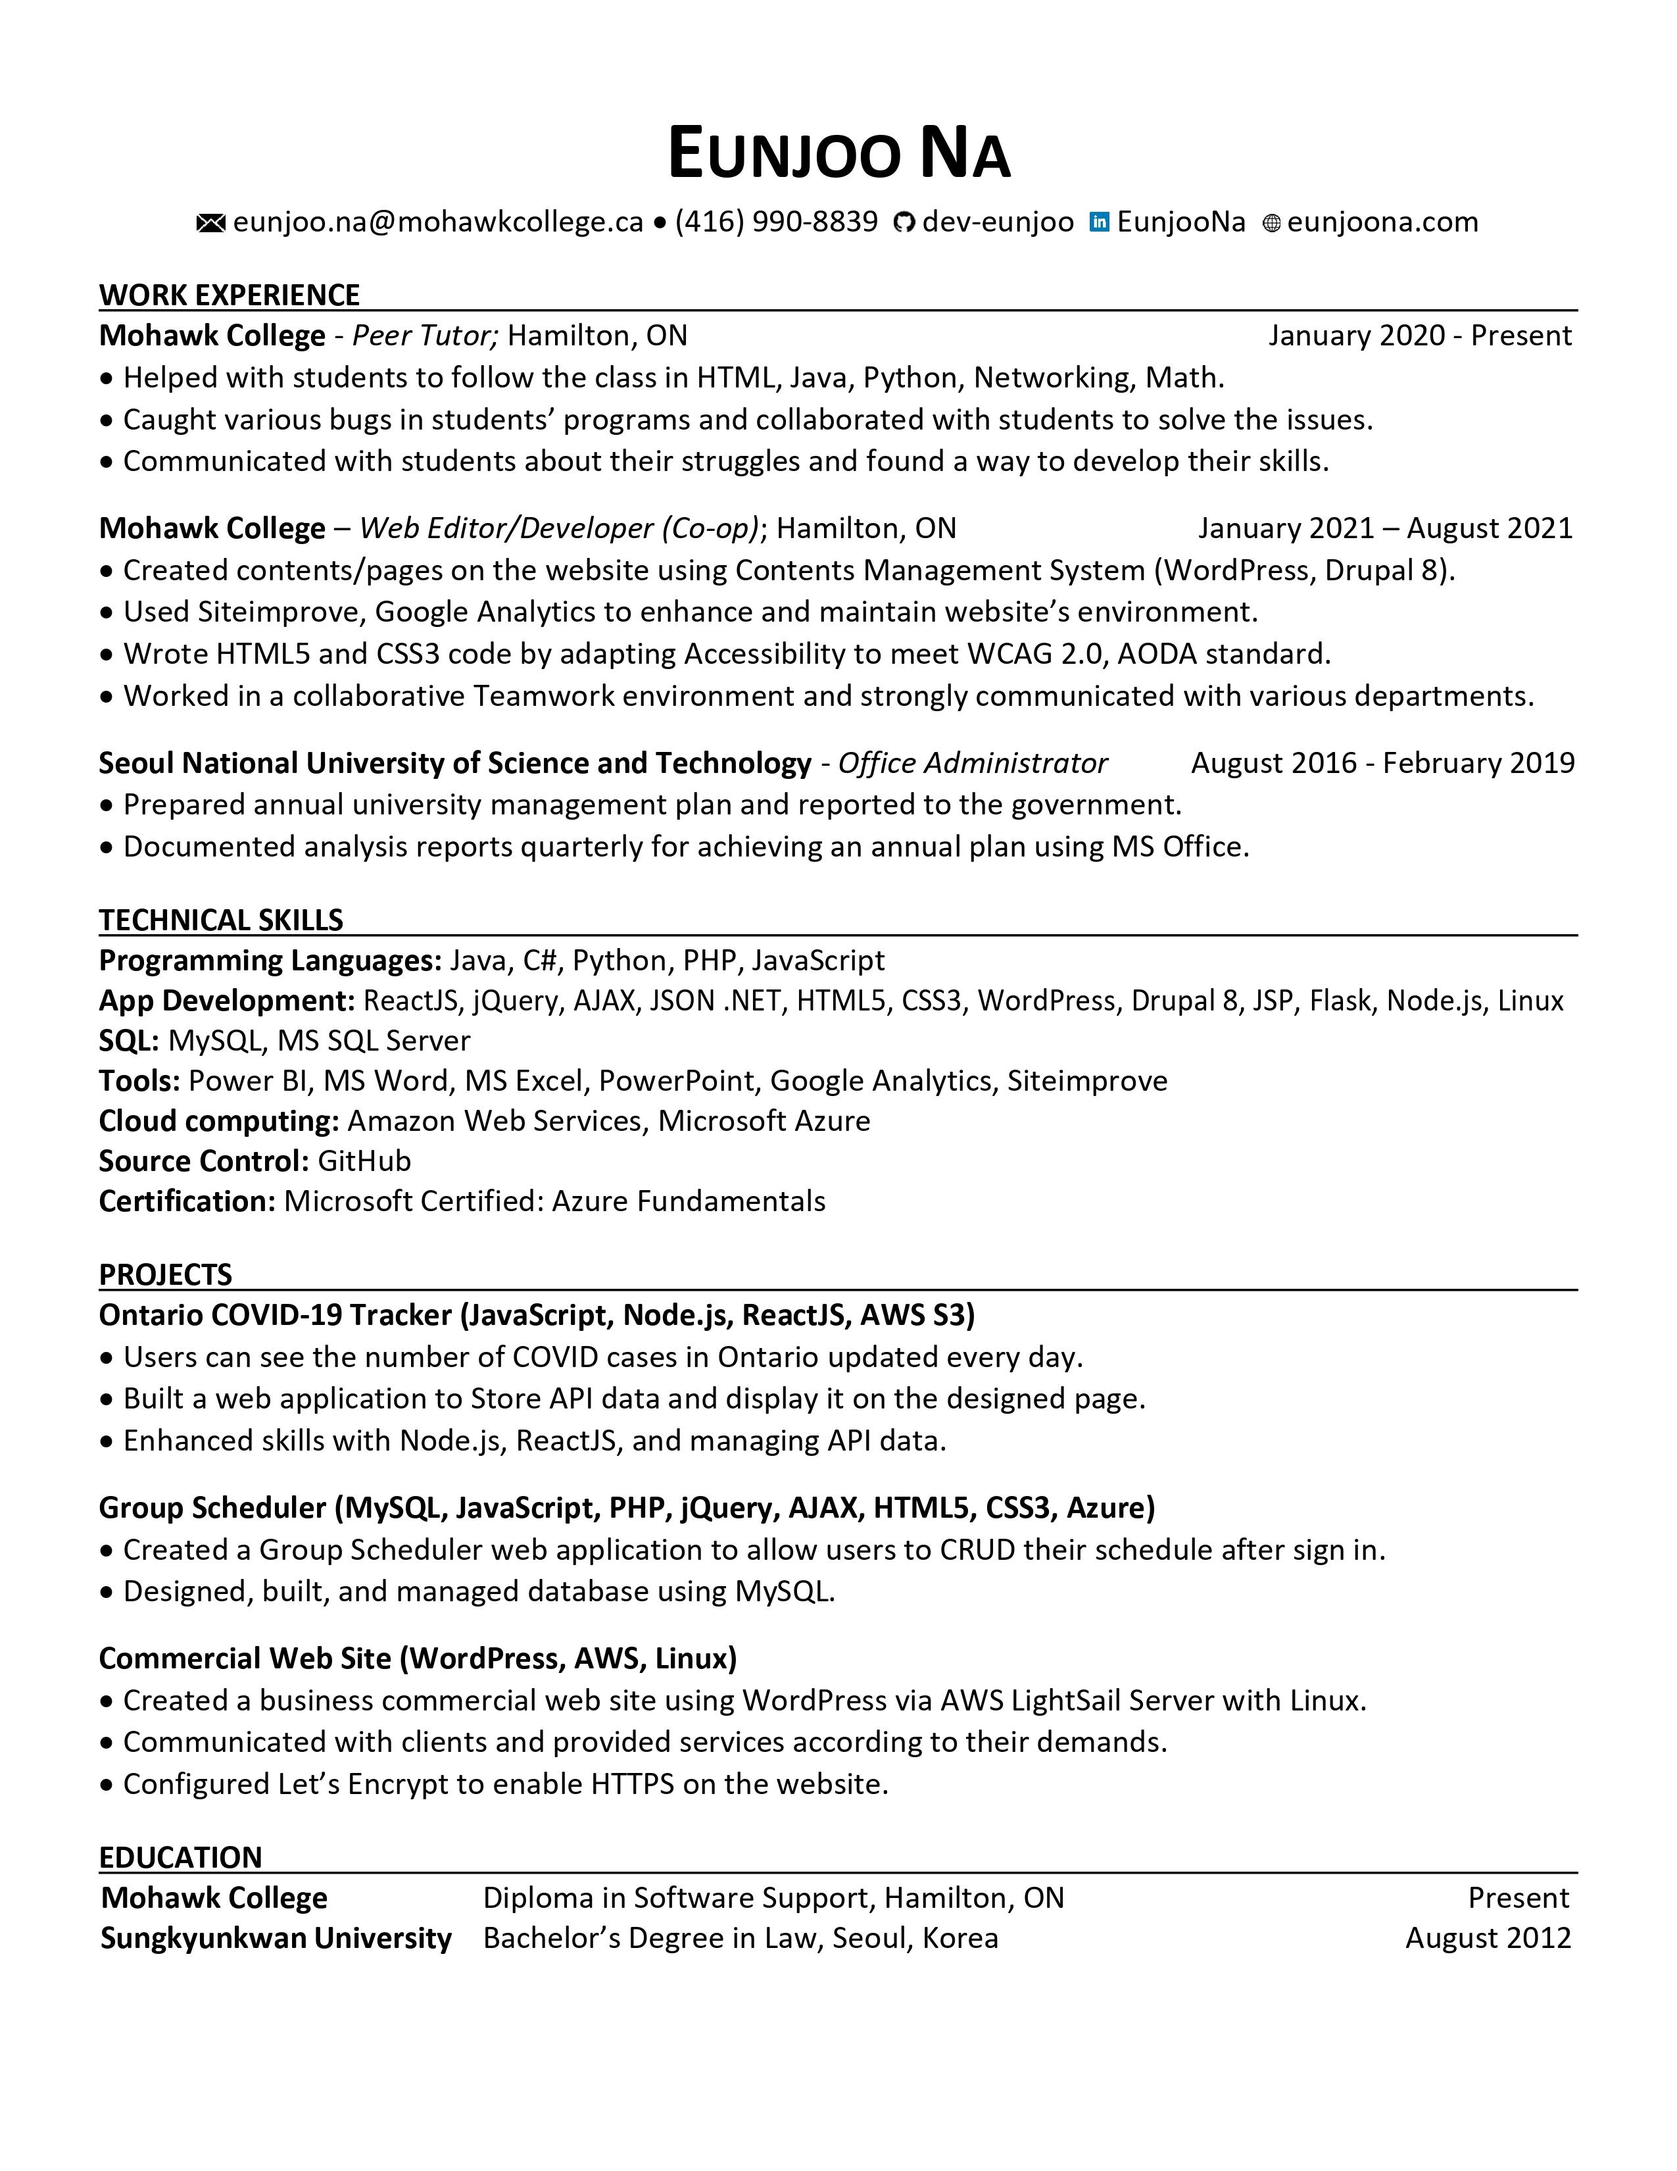
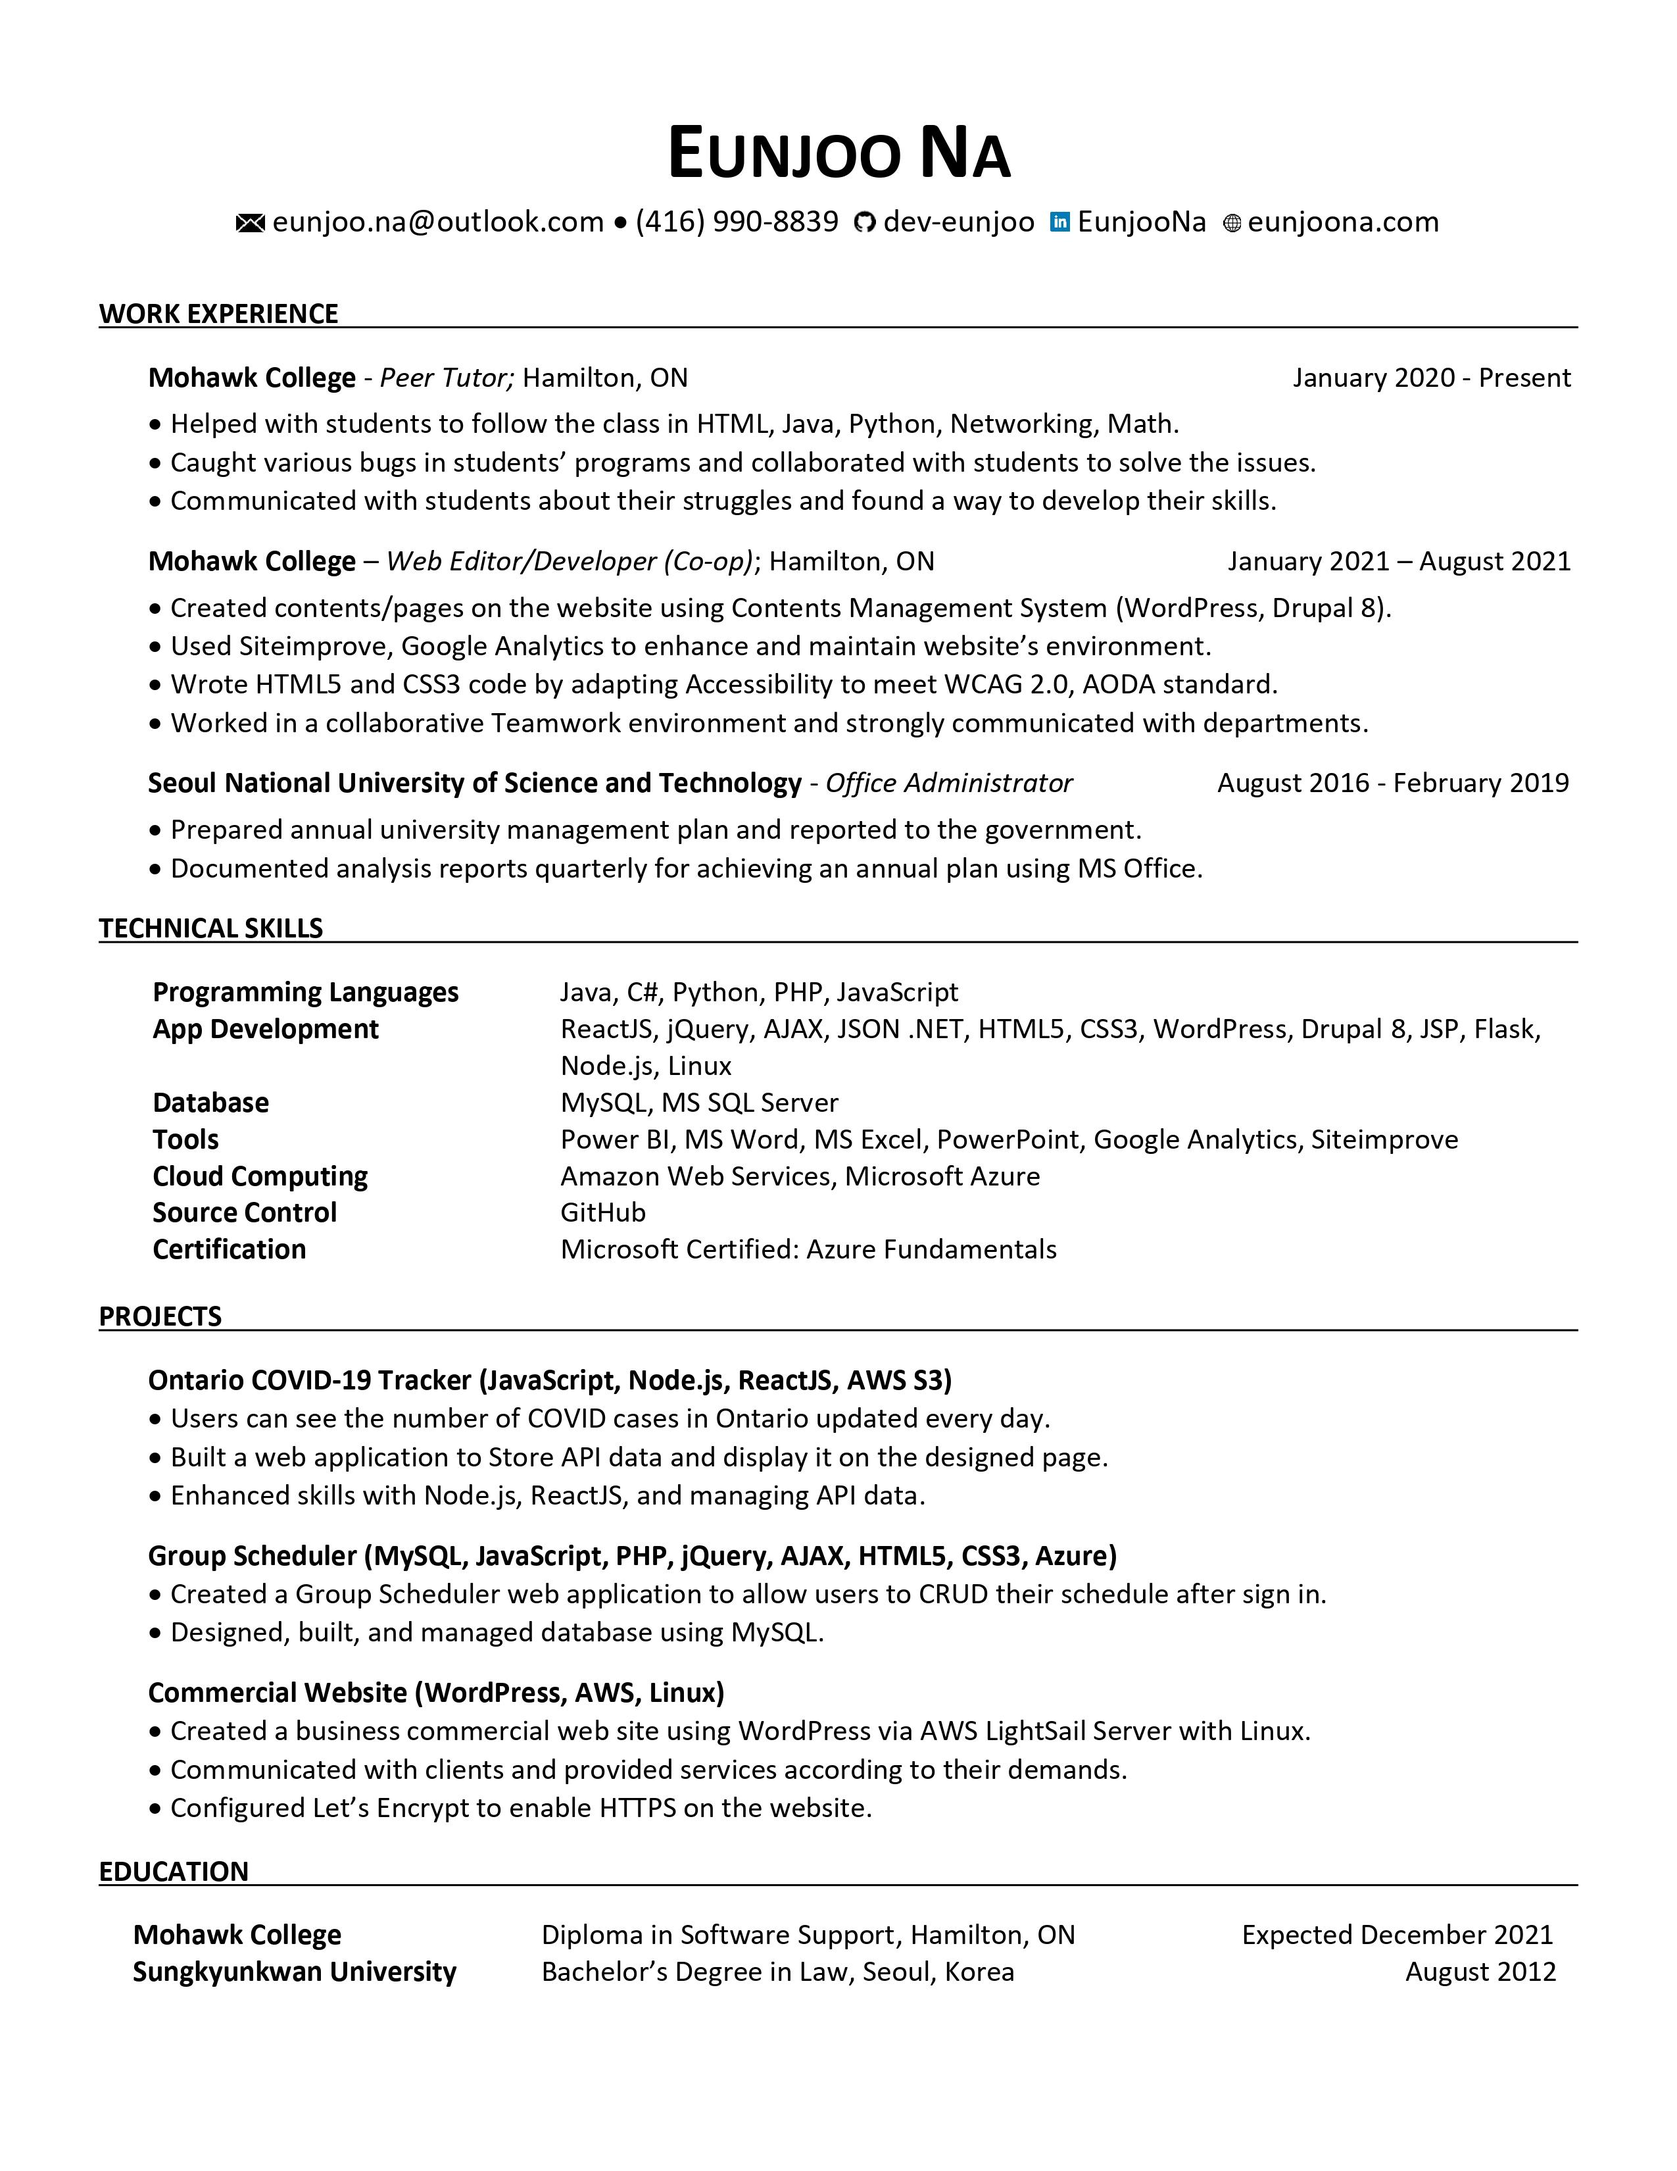
updated resume

diff --git a/index.html b/index.html
@@ -88,7 +88,6 @@
             <p class="lead">
               Adept at learning new skills quickly in a fast-paced environment
             </p>
-            <p class="lead">Worked as a Web Editor / Developer (Co-op)</p>
             <div id="resume-link">
               <a
                 class="btn mx-1 btn-lg btn-info"
@@ -457,11 +456,11 @@
 
               <div class="col-lg-4 mb-6 mb-lg-0" style="padding: 20px">
                 <h4 class="text mb-4" style="font-size: 28px">
-                  poem0119@gmail.com
+                  eunjoo.na@outlook.com
                 </h4>
                 <a
                   class="btn mx-1 btn-lg btn-info"
-                  href="mailto:poem0119@gmail.com"
+                  href="mailto:eunjoo.na@outlook.com"
                   ><span class="glyphicon glyphicon-envelope"></span> E-mail</a
                 >
               </div>
